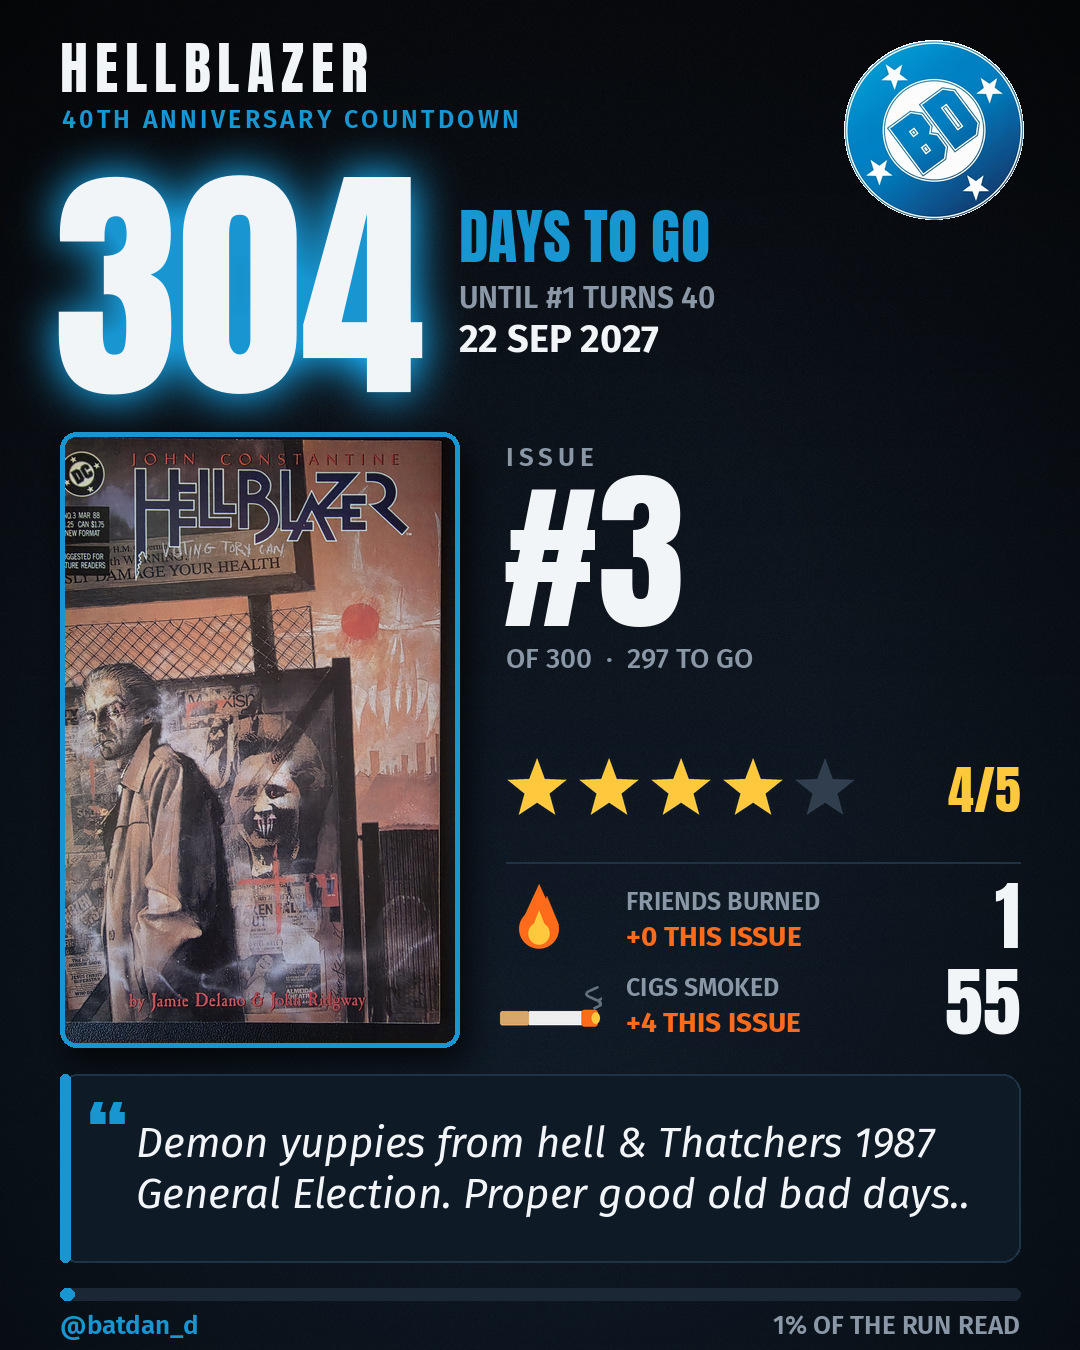
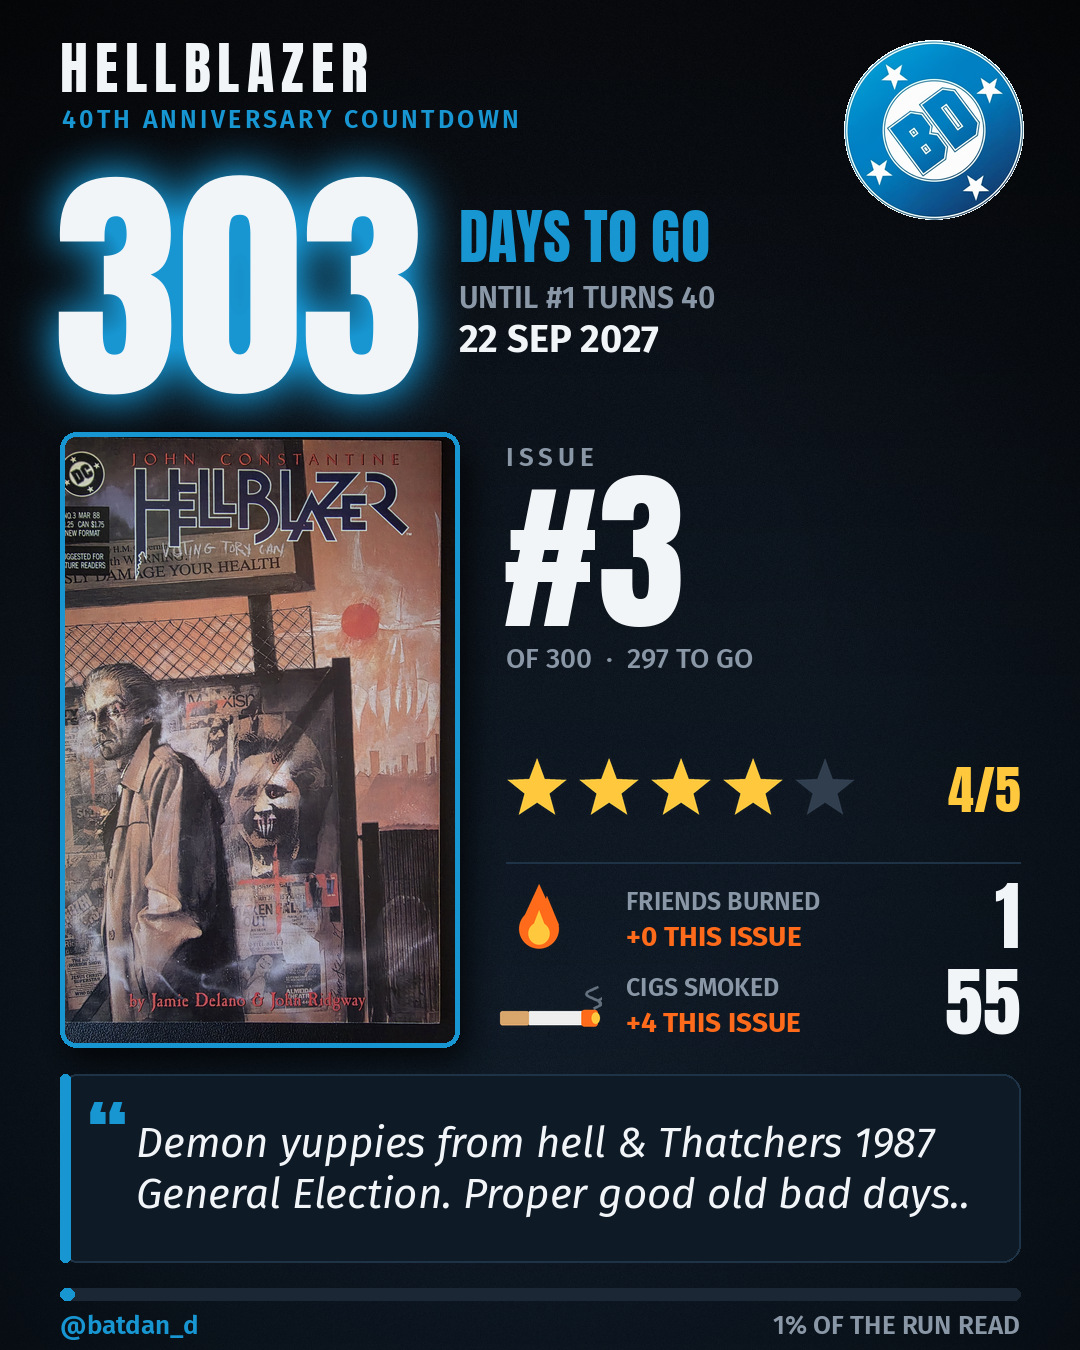
Update next post

Changed region(s): [[0.2444, 0.1244, 0.3972, 0.3111]]

diff --git a/NEXT_POST.md b/NEXT_POST.md
@@ -1,13 +1,13 @@
 # 📮 Next post — Hellblazer #3
 
-**304 days to go.**  Save the image, copy the caption, post to Instagram.
+**303 days to go.**  Save the image, copy the caption, post to Instagram.
 
 ![Post card](public/posts/hb-003.jpg)
 
 ### Caption
 
 ```
-☠ T-MINUS 304 DAYS — Hellblazer #3
+☠ T-MINUS 303 DAYS — Hellblazer #3
 ★★★★☆  4/5
 
 Demon yuppies from hell & Thatchers 1987 General Election. Proper good old bad days..
